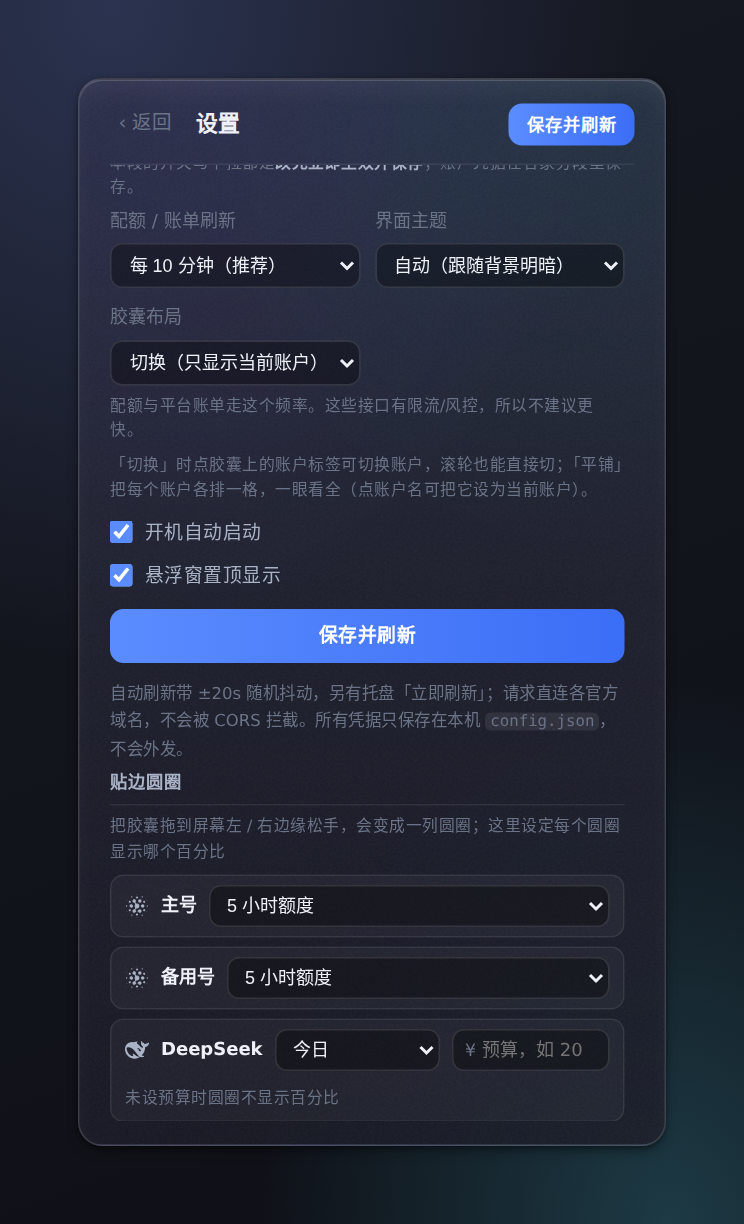
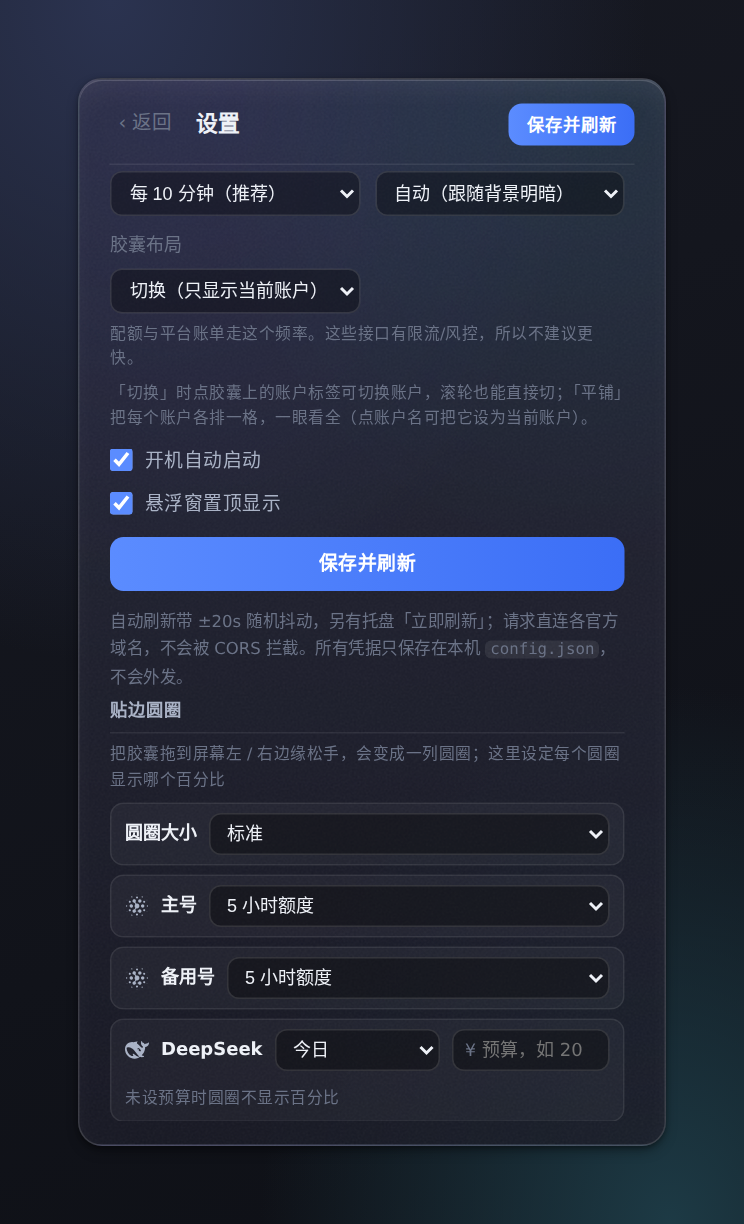
T12: v0.8.1：README 补「圆圈大小」+ 截图重出（设置页含新行）
- README 贴边模式补圆圈大小（Ctrl+滚轮 / 设置页下拉）、快捷操作补两条
- package.json 0.8.0 → 0.8.1（lockfile 按仓库惯例不动）
- docs/ 8 张截图重出（settings-general 带上「圆圈大小」行）
- 九套测试全绿（含 artifacts 在 0.8.1 版本号下重打一遍 zip 验证）

Changed region(s): [[0.1237, 0.1242, 0.8656, 0.7141]]

diff --git a/README.md b/README.md
@@ -110,6 +110,8 @@
 
 DeepSeek 没填预算 → 圆圈只画底环、数字显示「–」。超预算时数字照实显示（如 150%），圆环画满。
 
+**圆圈大小**：鼠标放在圆圈上 `Ctrl+滚轮` 缩放（0.6–1.6，`Ctrl+0` 复位）；或设置页「贴边圆圈」段的「圆圈大小」下拉（小 / 标准 / 大 / 特大，滚轮调出的非预设值显示成「自定义」）。
+
 **悬停看详情**：鼠标移到圆圈上，该账户的详情卡片从圆圈内侧飞出——内容就是面板里这个账户的那一页；点卡片空白 = 打开完整面板到这个账户。
 
 **挪了屏也不丢**：拔插屏 / 换分辨率后，圆圈自动贴到离它最近的那块屏的同侧边；「找回窗口」清掉贴边记忆，挂件回到胶囊（主屏右上角）。
@@ -181,7 +183,7 @@ Authorization: <API Key 或 bigmodel_token_production 的 JWT>   # 注意没有 
 
 **保存行为**：开关与下拉**改完立即生效**（右上角闪一下「✓ 已保存」）；凭据在「添加 / 编辑」表单里显式保存。凭据粘贴格式不对时会明确报错并保留旧值，不会静默丢弃。
 
-**快捷操作**：胶囊单击 = 展开面板，右键 = 菜单，拖动 = 换位置；贴边时拖动 = 换位置（拖离边缘松手即回胶囊）、点圆圈 = 打开该账户面板、右键 = 菜单（含「取消贴边」）；展开态拖动任意处 = 移动、点空白处 = 收起、`Ctrl+滚轮` = 等比缩放（80%–160%，`Ctrl+0` 复位）、`Esc` = 收起；托盘左键 = 展开 / 收起；胶囊被拔插屏 / 睡眠唤醒搞丢时，托盘菜单 →「找回窗口」把它拉回主屏（不用重启）。
+**快捷操作**：胶囊单击 = 展开面板，右键 = 菜单，拖动 = 换位置；贴边时拖动 = 换位置（拖离边缘松手即回胶囊）、悬停圆圈 = 看详情、`Ctrl+滚轮` = 缩放圆圈大小、点圆圈 = 打开该账户面板、右键 = 菜单（含「取消贴边」）；展开态拖动任意处 = 移动、点空白处 = 收起、`Ctrl+滚轮` = 等比缩放（80%–160%，`Ctrl+0` 复位）、`Esc` = 收起；托盘左键 = 展开 / 收起；胶囊被拔插屏 / 睡眠唤醒搞丢时，托盘菜单 →「找回窗口」把它拉回主屏（不用重启）。
 
 ## 隐私
 
